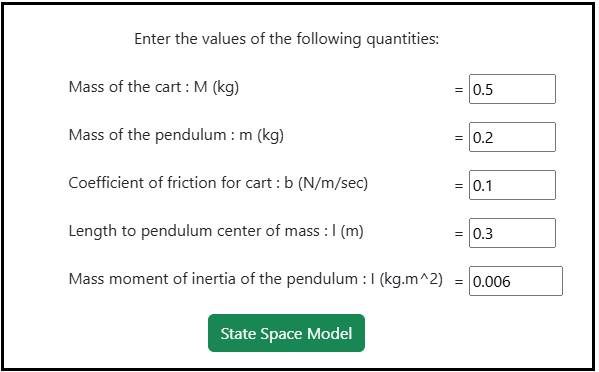
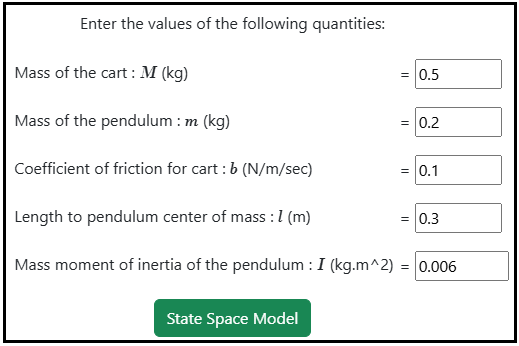
update 4

diff --git a/experiment/simulation/js/DS.js b/experiment/simulation/js/DS.js
@@ -71,10 +71,10 @@ function system(){
 			
 			
 			
-			document.getElementById('matA').innerHTML = ' A =['+ a11+',\t'+a12+',\t'+a13+',\t'+a14+';\t\t'+a21+','+a22+',\t'+a23+',\t'+a24+';\t\t'+a31+',\t'+a32+',\t'+a33+',\t'+a34+';\t\t'+a41+',\t'+a42+',\t'+a43+',\t'+a44+']';
-			document.getElementById('matB').innerHTML = ' B =['+ b1+';\t\t'+b2+';\t\t'+b3+';\t'+b4+']';
-			document.getElementById('matC').innerHTML = ' C =['+ c11+',\t'+c12+',\t'+c13+',\t'+c14+';\t\t'+c21+','+c22+',\t'+c23+',\t'+c24+']';
-			document.getElementById('matD').innerHTML = ' D =['+ d11+';\t\t'+d21+']';
+			document.getElementById('matA').innerHTML = '<span style="font-family:Bodoni MT;font-style:italic;font-size:18px"> A</span> =['+ a11+',\t'+a12+',\t'+a13+',\t'+a14+';\t\t'+a21+','+a22+',\t'+a23+',\t'+a24+';\t\t'+a31+',\t'+a32+',\t'+a33+',\t'+a34+';\t\t'+a41+',\t'+a42+',\t'+a43+',\t'+a44+']';
+			document.getElementById('matB').innerHTML = '<span style="font-family:Bodoni MT;font-style:italic;font-size:18px"> B</span> =['+ b1+';\t\t'+b2+';\t\t'+b3+';\t'+b4+']';
+			document.getElementById('matC').innerHTML = '<span style="font-family:Bodoni MT;font-style:italic;font-size:18px"> C</span> =['+ c11+',\t'+c12+',\t'+c13+',\t'+c14+';\t\t'+c21+','+c22+',\t'+c23+',\t'+c24+']';
+			document.getElementById('matD').innerHTML = '<span style="font-family:Bodoni MT;font-style:italic;font-size:18px"> D </span>=['+ d11+';\t\t'+d21+']';
 			
 			//outputText1=" G(s)= ["+b0+"s\u00B2+("+b1+")s+("+b2+ ")] / [" +a0+"s<sup>2</sup>+("+a1+")s+("+a2+ ")]";
 			
@@ -317,10 +317,10 @@ function CNTR(){
 			var AAB= math.matrix([aab1, aab2, aab3, aab4]);
 			var AAAB= math.matrix([aaab1, aaab2, aaab3, aaab4]);
 			
-			document.getElementById('matQcB').innerHTML = 'B ='+ B;
-			document.getElementById('matQcAB').innerHTML = ' AB ='+ AB;
-			document.getElementById('matQcAAB').innerHTML = ' A<sup>2</sup>B ='+ AAB;
-			document.getElementById('matQcAAAB').innerHTML = ' A<sup>3</sup>B ='+ AAAB;
+			document.getElementById('matQcB').innerHTML = '<span style="font-family:Bodoni MT;font-style:italic;font-size:18px">B</span> ='+ B;
+			document.getElementById('matQcAB').innerHTML = ' <span style="font-family:Bodoni MT;font-style:italic;font-size:18px">AB</span> ='+ AB;
+			document.getElementById('matQcAAB').innerHTML = ' <span style="font-family:Bodoni MT;font-style:italic;font-size:18px">A<sup>2</sup>B</span> ='+ AAB;
+			document.getElementById('matQcAAAB').innerHTML = ' <span style="font-family:Bodoni MT;font-style:italic;font-size:18px">A<sup>3</sup>B</span> ='+ AAAB;
 			
 			//var Qc1= math.matrix([[0, 1.818, -0.331, 12.209], [1.818, -0.331, 12.209, -4.433], [0, 4.545, -0.827, 141.873], [4.545, -0.827, 141.873, -31.349]]);
 			//var DQc1=math.det(Qc1);
@@ -328,7 +328,7 @@ function CNTR(){
 			
 			var Qc= math.matrix([[b1, ab1, aab1, aaab1],[b2, ab2, aab2, aaab2],[b3, ab3, aab3, aaab3],[b4, ab4, aab4, aaab4]]);
 			
-			document.getElementById('matQc').innerHTML = ' Q<sub>c</sub> =['+ b1+',\t'+ab1+',\t'+aab1+',\t'+aaab1+';\t\t'+b2+','+ab2+',\t'+aab2+',\t'+aaab2+';\t\t'+b3+',\t'+ab3+',\t'+aab3+',\t'+aaab3+';\t\t'+b4+',\t'+ab4+',\t'+aab4+',\t'+aaab4+']'
+			document.getElementById('matQc').innerHTML = ' <span style="font-family:Bodoni MT;font-style:italic;font-size:18px">Q<sub>c</sub></span> =['+ b1+',\t'+ab1+',\t'+aab1+',\t'+aaab1+';\t\t'+b2+','+ab2+',\t'+aab2+',\t'+aaab2+';\t\t'+b3+',\t'+ab3+',\t'+aab3+',\t'+aaab3+';\t\t'+b4+',\t'+ab4+',\t'+aab4+',\t'+aaab4+']'
 			
 			var DQc= math.divide(math.round(math.multiply(math.det(Qc),1000)),1000);
 			console.log(DQc);
@@ -336,8 +336,8 @@ function CNTR(){
 			//DQc=0;
 			
 			if (DQc!=0)
-			{  Cntrl_Test1=" Rank of Q<sub>c</sub> = Order of A = n = 4";			   
-			   Cntrl_Test2="Determinent of Q<sub>c</sub> = " +DQc+ "";				    
+			{  Cntrl_Test1=" Rank is 4";			   
+			   Cntrl_Test2="Determinent is " +DQc+ "";				    
 			   Cntrl_Test3=" System is completely controllable";
 			   document.getElementById("Cntrl_Test1").innerHTML=Cntrl_Test1;
 			   document.getElementById("Cntrl_Test2").innerHTML=Cntrl_Test2;
@@ -460,8 +460,8 @@ function CNTR(){
 			   
 			}
 			   else 
-			   {   Cntrl_Test1=" Rank of Q<sub>c</sub> < Order of A = n = 4";
-		           Cntrl_Test2="Determinent of Q<sub>c</sub> = " +DQc+ "";		
+			   {   Cntrl_Test1=" Rank < n = 4";
+		           Cntrl_Test2="Determinent is" +DQc+ "";		
 			       Cntrl_Test3=" System is not controllable";
 			       document.getElementById("Cntrl_Test1").innerHTML=Cntrl_Test1;
 				   document.getElementById("Cntrl_Test2").innerHTML=Cntrl_Test2;
@@ -631,7 +631,7 @@ function OBSR(){
 			
 			var Qoo= math.matrix([[c11, c12, c13, c14],[c21, c22, c23, c24],[ca11, ca12, ca13, ca14],[ca21, ca22, ca23, ca24]]);
 			
-			document.getElementById('matQo').innerHTML = 'Q<sub>o</sub> =['+ c11+',\t'+c12+',\t'+c13+',\t'+c14+';\t\t'+c21+','+c22+',\t'+c23+',\t'+c24+';\t'+ ca11+',\t'+ca12+',\t'+ca13+',\t'+ca14+';\t\t'+ca21+','+ca22+',\t'+ca23+',\t'+ca24+']'
+			document.getElementById('matQo').innerHTML = '<span style="font-family:Bodoni MT;font-style:italic;font-size:18px">Q<sub>o</sub></span> =['+ c11+',\t'+c12+',\t'+c13+',\t'+c14+';\t\t'+c21+','+c22+',\t'+c23+',\t'+c24+';\t'+ ca11+',\t'+ca12+',\t'+ca13+',\t'+ca14+';\t\t'+ca21+','+ca22+',\t'+ca23+',\t'+ca24+']'
 			
 			var DQoo= math.divide(math.round(math.multiply(math.det(Qoo),1000)),1000);
 			console.log(DQoo);
@@ -662,10 +662,10 @@ function OBSR(){
 			
 			console.log(Qo3);
 			
-			document.getElementById('matQoC').innerHTML = ' C =['+ c11+',\t'+c12+',\t'+c13+',\t'+c14+';\t\t'+c21+','+c22+',\t'+c23+',\t'+c24+']'
-			document.getElementById('matQoCA').innerHTML = ' CA =['+ ca11+',\t'+ca12+',\t'+ca13+',\t'+ca14+';\t\t'+ca21+','+ca22+',\t'+ca23+',\t'+ca24+']'
-			document.getElementById('matQoCAA').innerHTML = ' CA<sup>2</sup> =['+ caa11+',\t'+caa12+',\t'+caa13+',\t'+caa14+';\t\t'+caa21+','+caa22+',\t'+caa23+',\t'+caa24+']'
-			document.getElementById('matQoCAAA').innerHTML = ' CA<sup>3</sup> =['+ caaa11+',\t'+caaa12+',\t'+caaa13+',\t'+caaa14+';\t\t'+caaa21+','+caaa22+',\t'+caaa23+',\t'+caaa24+']'
+			document.getElementById('matQoC').innerHTML = ' <span style="font-family:Bodoni MT;font-style:italic;font-size:18px">C</span> =['+ c11+',\t'+c12+',\t'+c13+',\t'+c14+';\t\t'+c21+','+c22+',\t'+c23+',\t'+c24+']'
+			document.getElementById('matQoCA').innerHTML = ' <span style="font-family:Bodoni MT;font-style:italic;font-size:18px">CA</span> =['+ ca11+',\t'+ca12+',\t'+ca13+',\t'+ca14+';\t\t'+ca21+','+ca22+',\t'+ca23+',\t'+ca24+']'
+			document.getElementById('matQoCAA').innerHTML = ' <span style="font-family:Bodoni MT;font-style:italic;font-size:18px">CA<sup>2</sup></span> =['+ caa11+',\t'+caa12+',\t'+caa13+',\t'+caa14+';\t\t'+caa21+','+caa22+',\t'+caa23+',\t'+caa24+']'
+			document.getElementById('matQoCAAA').innerHTML = ' <span style="font-family:Bodoni MT;font-style:italic;font-size:18px">CA<sup>3</sup></span> =['+ caaa11+',\t'+caaa12+',\t'+caaa13+',\t'+caaa14+';\t\t'+caaa21+','+caaa22+',\t'+caaa23+',\t'+caaa24+']'
 			
 		/*	if (DQo1!=0)
 			{  Obsrl_Test1=" Rank of Q<sub>o1</sub> = Order of A = n = 4";
@@ -694,8 +694,8 @@ function OBSR(){
 			   }
 			   */
 			   if (DQoo!=0)
-			{  Obsrl_Test5=" Rank of Q<sub>o</sub> = Order of A = n = 4";
-			   Obsrl_Test6="Determinent of Q<sub>o</sub> = " +DQoo+ "";	
+			{  Obsrl_Test5=" Rank is 4";
+			   Obsrl_Test6="Determinent is" +DQoo+ "";	
 			   Obsrl_Test7=" System is completely observable";
 			   document.getElementById("Obsrl_Test5").innerHTML=Obsrl_Test5;
 			   document.getElementById("Obsrl_Test6").innerHTML=Obsrl_Test6;
@@ -814,8 +814,8 @@ function OBSR(){
 			    */
 			}
 			   else 
-			   {   Obsrl_Test5=" Rank of Q<sub>o</sub> < Order of A = n = 4";
-		           Obsrl_Test6="Determinent of Q<sub>o</sub> = " +DQoo+ "";	
+			   {   Obsrl_Test5=" Rank < n = 4";
+		           Obsrl_Test6="Determinent is" +DQoo+ "";	
 			       Obsrl_Test7=" System is not observable";
 			       document.getElementById("Obsrl_Test5").innerHTML=Obsrl_Test5;
 				   document.getElementById("Obsrl_Test6").innerHTML=Obsrl_Test6;

diff --git a/experiment/simulation/index.html b/experiment/simulation/index.html
@@ -129,8 +129,7 @@
         
     </div><!--First Container under body tag end-->
     
-
-	
+    
     <div class="container p-3 my-5 text-left border"><!--3rd Container under body tag start-->
       <div class="row"><!--First row under 3rd container start-->
         <div class="col-md-1"></div><!--First col under 3rd container start& end-->
@@ -141,7 +140,7 @@
   
 					  <li> Click on 'State Space Model' button to get the state space form of the system. </li><br/>
 					  
-					  <li> Click on ' Enter the pole Location' button to enter desired pole values. </li><br/> 
+					  <li> Click on ' Enter the Pole Location' button to enter desired pole values. </li><br/> 
 					 
 					 <li> Enter the desired negative pole values. </li><br/> 
 					 
@@ -185,11 +184,11 @@
 			Enter the values of the following quantities: <br/><br/>
 			<!--<img class = "img-fluid" src="./images/Continuous_System.png" class="img-fluid" > <br/></br>-->
 			
-			<span style="position:absolute;left:33%">Mass of the cart :  M (kg)</span> <span style="position:absolute;left:63%;text-align:center">= <input type="number" id="M1" min="0.1" value="0.5" max="1" step="0.05"  ></span><br/></br>
-			<span style="position:absolute;left:33%">Mass of the pendulum : m (kg)</span><span style="position:absolute;left:63%;text-align:center"> = <input type="number" id="m1" min="0.1" value="0.2" max="1" step="0.05"  ></span><br/></br>
-			<span style="position:absolute;left:33%">Coefficient of friction for cart :  b (N/m/sec)</span> <span style="position:absolute;left:63%;text-align:center">= <input type="number" id="bc" min="0.01" value="0.1" max="1" step="0.01"  ></span><br/></br>
-            <span style="position:absolute;left:33%">Length to pendulum center of mass : l (m)</span> <span style="position:absolute;left:63%;text-align:center">= <input type="number" id="l1" min="0.1" value="0.3" max="1" step="0.05" ></span><br/></br>	
-            <span style="position:absolute;left:33%">Mass moment of inertia of the pendulum : I (kg.m^2)</span> <span style="position:absolute;left:63%;text-align:center">= <input type="number" id="I1" min="0.001" value="0.006" max="1" step="0.001" ></span><br/></br>
+			<span style="position:absolute;left:33%">Mass of the cart :  <span style="font-family:Bodoni MT;font-style:italic;font-size:18px">M</span> (kg)</span> <span style="position:absolute;left:63%;text-align:center">= <input type="number" id="M1" min="0.1" value="0.5" max="1" step="0.05"  ></span><br/></br>
+			<span style="position:absolute;left:33%">Mass of the pendulum : <span style="font-family:Bodoni MT;font-style:italic;font-size:18px">m</span> (kg)</span><span style="position:absolute;left:63%;text-align:center"> = <input type="number" id="m1" min="0.1" value="0.2" max="1" step="0.05"  ></span><br/></br>
+			<span style="position:absolute;left:33%">Coefficient of friction for cart :  <span style="font-family:Bodoni MT;font-style:italic;font-size:18px">b</span> (N/m/sec)</span> <span style="position:absolute;left:63%;text-align:center">= <input type="number" id="bc" min="0.01" value="0.1" max="1" step="0.01"  ></span><br/></br>
+            <span style="position:absolute;left:33%">Length to pendulum center of mass : <span style="font-family:Bodoni MT;font-style:italic;font-size:18px">l</span> (m)</span> <span style="position:absolute;left:63%;text-align:center">= <input type="number" id="l1" min="0.1" value="0.3" max="1" step="0.05" ></span><br/></br>	
+            <span style="position:absolute;left:33%">Mass moment of inertia of the pendulum : <span style="font-family:Bodoni MT;font-style:italic;font-size:18px">I</span> (kg.m^2)</span> <span style="position:absolute;left:63%;text-align:center">= <input type="number" id="I1" min="0.001" value="0.006" max="1" step="0.001" ></span><br/></br>
             
 			
 			
@@ -254,7 +253,7 @@
 			<p id="output_text2"/>-->
 			
 			<br><br>
-			<button class="btn btn-success" id ="run1" onclick="EP()" style="visibility:hidden">Enter the desired pole location</button>				
+			<button class="btn btn-success" id ="run1" onclick="EP()" style="visibility:hidden">Enter the Pole Location</button>				
 			
 			<div id="tfbody11" class="card border-0" style="display:none; width:100%;background-color:none">
 			<br/><br/>
@@ -351,15 +350,15 @@
 			
 			$$ Q_c = [B, \ AB, \ A^2B, \ A^3B] $$
 			
-			<span class="card-text" id="matQcB" ></span><br/<br/>
-			<span class="card-text" id="matQcAB" ></span><br/<br/>
-			<span class="card-text" id="matQcAAB" ></span><br/<br/>
-			<span class="card-text" id="matQcAAAB" ></span><br/<br/><br/>
-			<span class="card-text" id="matQc" ></span><br/<br/>
+			<span class="card-text" id="matQcB" ></span><br/><br/>
+			<span class="card-text" id="matQcAB" ></span><br/><br/>
+			<span class="card-text" id="matQcAAB" ></span><br/><br/>
+			<span class="card-text" id="matQcAAAB" ></span><br/><br/><br/>
+			<span class="card-text" id="matQc" ></span><br/><br/>
 			 
-			<button class="btn btn-success" onclick="showRank()">Rank of Qc</button>
+			<button class="btn btn-success" onclick="showRank()">Rank of <span style="font-family:Bodoni MT;font-style:italic;font-size:18px">Q<sub>c</sub></span></button>
 				<span id="Cntrl_Test1" style="display:none"></span><br/><br/>
-			<button class="btn btn-success" onclick="showDetQc()">Determinant of Qc</button>
+			<button class="btn btn-success" onclick="showDetQc()">Determinant of <span style="font-family:Bodoni MT;font-style:italic;font-size:18px">Q<sub>c</sub></span></button>
 			    <span id="Cntrl_Test2" style="display:none"></span><br/><br/>
 			<button class="btn btn-success" onclick="showinfo()">Inference</button>
 				<span id="Cntrl_Test3" style="display:none"></span><br/><br/>
@@ -393,15 +392,15 @@
 			$$ Q_{o2} = [c_2 \ c_2A \ c_2A^2 \ c_2A^3]^T $$-->
 			$$ Q_o = [C, \ CA, \ CA^2, \ CA^3]^T $$
 			
-			<span class="card-text" id="matQoC" ></span><br/<br/>
-			<span class="card-text" id="matQoCA" ></span><br/<br/>
-			<span class="card-text" id="matQoCAA" ></span><br/<br/>
-			<span class="card-text" id="matQoCAAA" ></span><br/<br/><br/>
-			<span class="card-text" id="matQo" ></span><br/<br/>
+			<span class="card-text" id="matQoC" ></span><br/><br/>
+			<span class="card-text" id="matQoCA" ></span><br/><br/>
+			<span class="card-text" id="matQoCAA" ></span><br/><br/>
+			<span class="card-text" id="matQoCAAA" ></span><br/><br/><br/>
+			<span class="card-text" id="matQo" ></span><br/><br/>
 			 
-			<button class="btn btn-success" onclick="showRankQo()">Rank of Qo</button>
+			<button class="btn btn-success" onclick="showRankQo()">Rank of <span style="font-family:Bodoni MT;font-style:italic;font-size:18px">Q<sub>o</sub></span></button>
 				<span id="Obsrl_Test5" style="display:none"></span><br/><br/>
-			<button class="btn btn-success" onclick="showDetQo()">Determinant of Qo</button>
+			<button class="btn btn-success" onclick="showDetQo()">Determinant of <span style="font-family:Bodoni MT;font-style:italic;font-size:18px">Q<sub>o</sub></span></button>
 			    <span id="Obsrl_Test6" style="display:none"></span><br/><br/>
 			<button class="btn btn-success" onclick="showinfoQo()">Inference</button>
 				<span id="Obsrl_Test7" style="display:none"></span><br/><br/>

diff --git a/experiment/procedure.md b/experiment/procedure.md
@@ -8,22 +8,18 @@
 <div align="center">
 <img class="img-fluid"  src="./images/1.png" alt="">
 
-<b>Fig. 1. Parameter values of the Inverted pendulum on cart</b>						  
+<b>Fig. 1. Parameter values of the Inverted Pendulum on Cart</b>						  
 </div>
 
 2. Click on 'State Space Model' button to get the state space form of the system.
 
 <div align="center">
 <img class="img-fluid"  src="./images/2.png" alt="">           
-</div>
-
-<div align="center">
-<img class="img-fluid"  src="./images/Prod_2_1.png" alt="">
 
 <b>Fig. 2. Button to get the state Space form of the system</b>							  
 </div>
                     
-3. Click on ' Enter the pole Location' button to enter the desired pole values. 
+3. Click on ' Enter the Pole Location' button to enter the desired pole values. 
 
 <div align="center">
 <img class="img-fluid"  src="./images/4.png" alt="">
